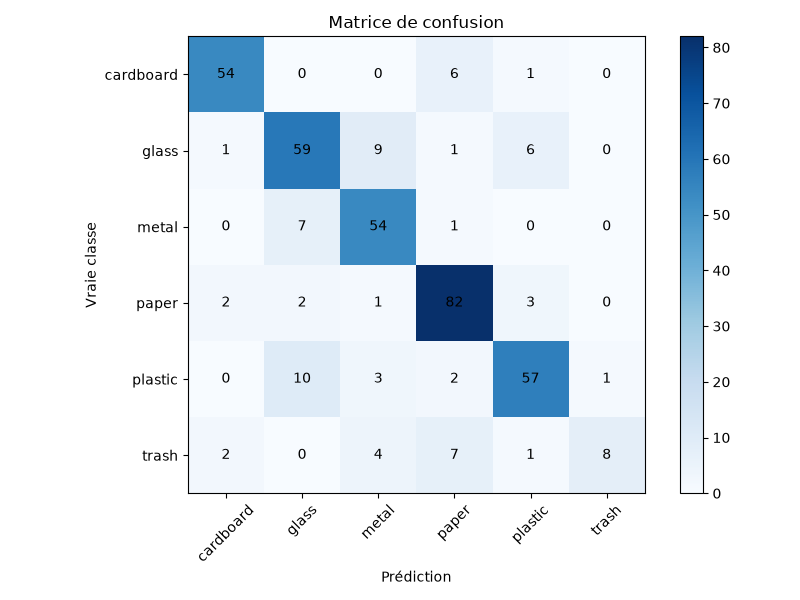
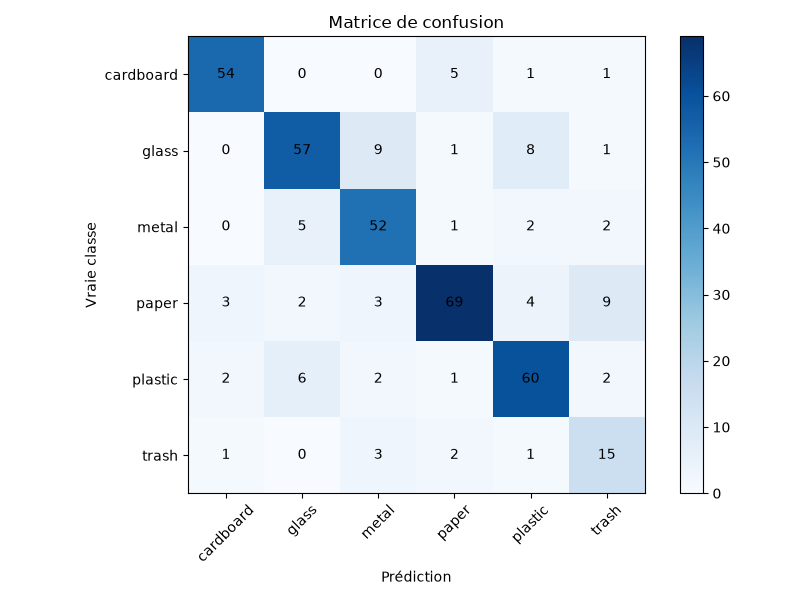
Amelioration modele : fine-tuning (30 dernieres couches) + class_weight, 80% test accuracy, meilleur equilibre inter-classes

diff --git a/models/train_model.py b/models/train_model.py
@@ -4,19 +4,18 @@ from tensorflow.keras.applications import MobileNetV2
 from tensorflow.keras.layers import GlobalAveragePooling2D, Dense, Dropout
 from tensorflow.keras.models import Model
 from tensorflow.keras.callbacks import ModelCheckpoint, EarlyStopping
+from sklearn.utils.class_weight import compute_class_weight
+import numpy as np
 
 IMG_SIZE = (128, 128)
 BATCH_SIZE = 32
 
-# Générateur pour l'entraînement : on applique de la data augmentation
 train_datagen = ImageDataGenerator(
     rescale=1./255,
     rotation_range=20,
     horizontal_flip=True,
     zoom_range=0.15
 )
-
-# Pour validation : PAS d'augmentation, juste la normalisation
 val_test_datagen = ImageDataGenerator(rescale=1./255)
 
 train_generator = train_datagen.flow_from_directory(
@@ -25,7 +24,6 @@ train_generator = train_datagen.flow_from_directory(
     batch_size=BATCH_SIZE,
     class_mode="categorical"
 )
-
 val_generator = val_test_datagen.flow_from_directory(
     "data/val",
     target_size=IMG_SIZE,
@@ -35,7 +33,18 @@ val_generator = val_test_datagen.flow_from_directory(
 
 print("Classes détectées :", train_generator.class_indices)
 
-# Modèle de base pré-entraîné, sans sa tête de classification
+class_weights = compute_class_weight(
+    class_weight="balanced",
+    classes=np.unique(train_generator.classes),
+    y=train_generator.classes
+)
+class_weight_dict = dict(enumerate(class_weights))
+print("Poids par classe :", class_weight_dict)
+
+# ============================================================
+# PHASE 1 : entraînement de la tête, base_model gelé
+# ============================================================
+
 base_model = MobileNetV2(
     input_shape=(128, 128, 3),
     include_top=False,
@@ -43,7 +52,6 @@ base_model = MobileNetV2(
 )
 base_model.trainable = False
 
-# Notre tête de classification personnalisée
 x = base_model.output
 x = GlobalAveragePooling2D()(x)
 x = Dense(128, activation="relu")(x)
@@ -60,15 +68,12 @@ model.compile(
 
 model.summary()
 
-EPOCHS = 20
-
 checkpoint = ModelCheckpoint(
     "models/modele_eco_sort.h5",
     monitor="val_accuracy",
     save_best_only=True,
     verbose=1
 )
-
 early_stop = EarlyStopping(
     monitor="val_accuracy",
     patience=4,
@@ -76,11 +81,52 @@ early_stop = EarlyStopping(
     verbose=1
 )
 
-history = model.fit(
+print("\n=== PHASE 1 : entrainement de la tete (base gelee) ===\n")
+model.fit(
     train_generator,
     validation_data=val_generator,
-    epochs=EPOCHS,
-    callbacks=[checkpoint, early_stop]
+    epochs=20,
+    callbacks=[checkpoint, early_stop],
+    class_weight=class_weight_dict
 )
 
-print("Meilleur modèle sauvegardé dans models/modele_eco_sort.h5")
+# ============================================================
+# PHASE 2 : fine-tuning, on degele les 30 dernieres couches
+# ============================================================
+
+print("\n=== PHASE 2 : fine-tuning des dernieres couches ===\n")
+
+base_model.trainable = True
+for layer in base_model.layers[:-30]:
+    layer.trainable = False
+
+model.compile(
+    optimizer=tf.keras.optimizers.Adam(learning_rate=1e-5),
+    loss="categorical_crossentropy",
+    metrics=["accuracy"]
+)
+
+model.summary()
+
+checkpoint_finetune = ModelCheckpoint(
+    "models/modele_eco_sort.h5",
+    monitor="val_accuracy",
+    save_best_only=True,
+    verbose=1
+)
+early_stop_finetune = EarlyStopping(
+    monitor="val_accuracy",
+    patience=4,
+    restore_best_weights=True,
+    verbose=1
+)
+
+model.fit(
+    train_generator,
+    validation_data=val_generator,
+    epochs=10,
+    callbacks=[checkpoint_finetune, early_stop_finetune],
+    class_weight=class_weight_dict
+)
+
+print("\nModele final (apres fine-tuning) sauvegarde dans models/modele_eco_sort.h5")